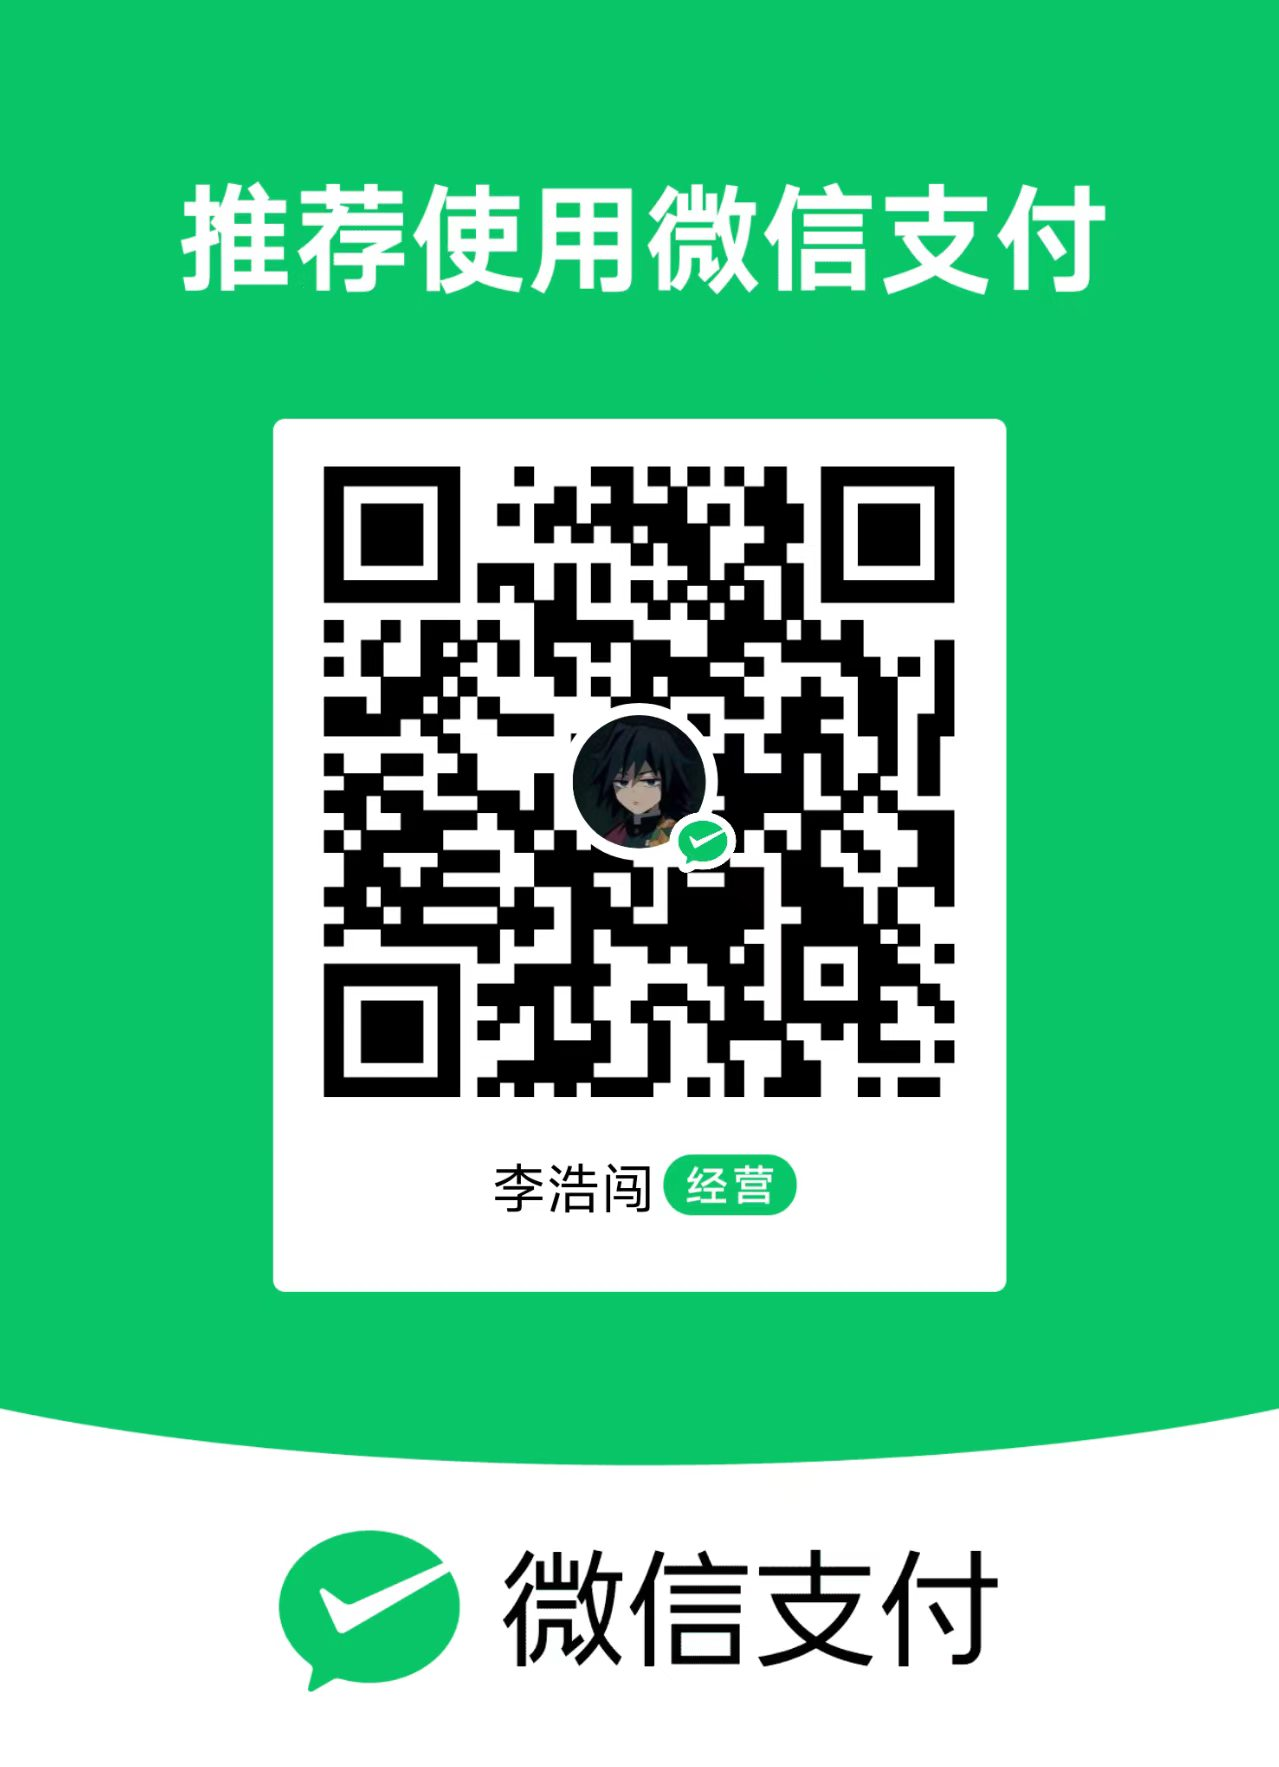
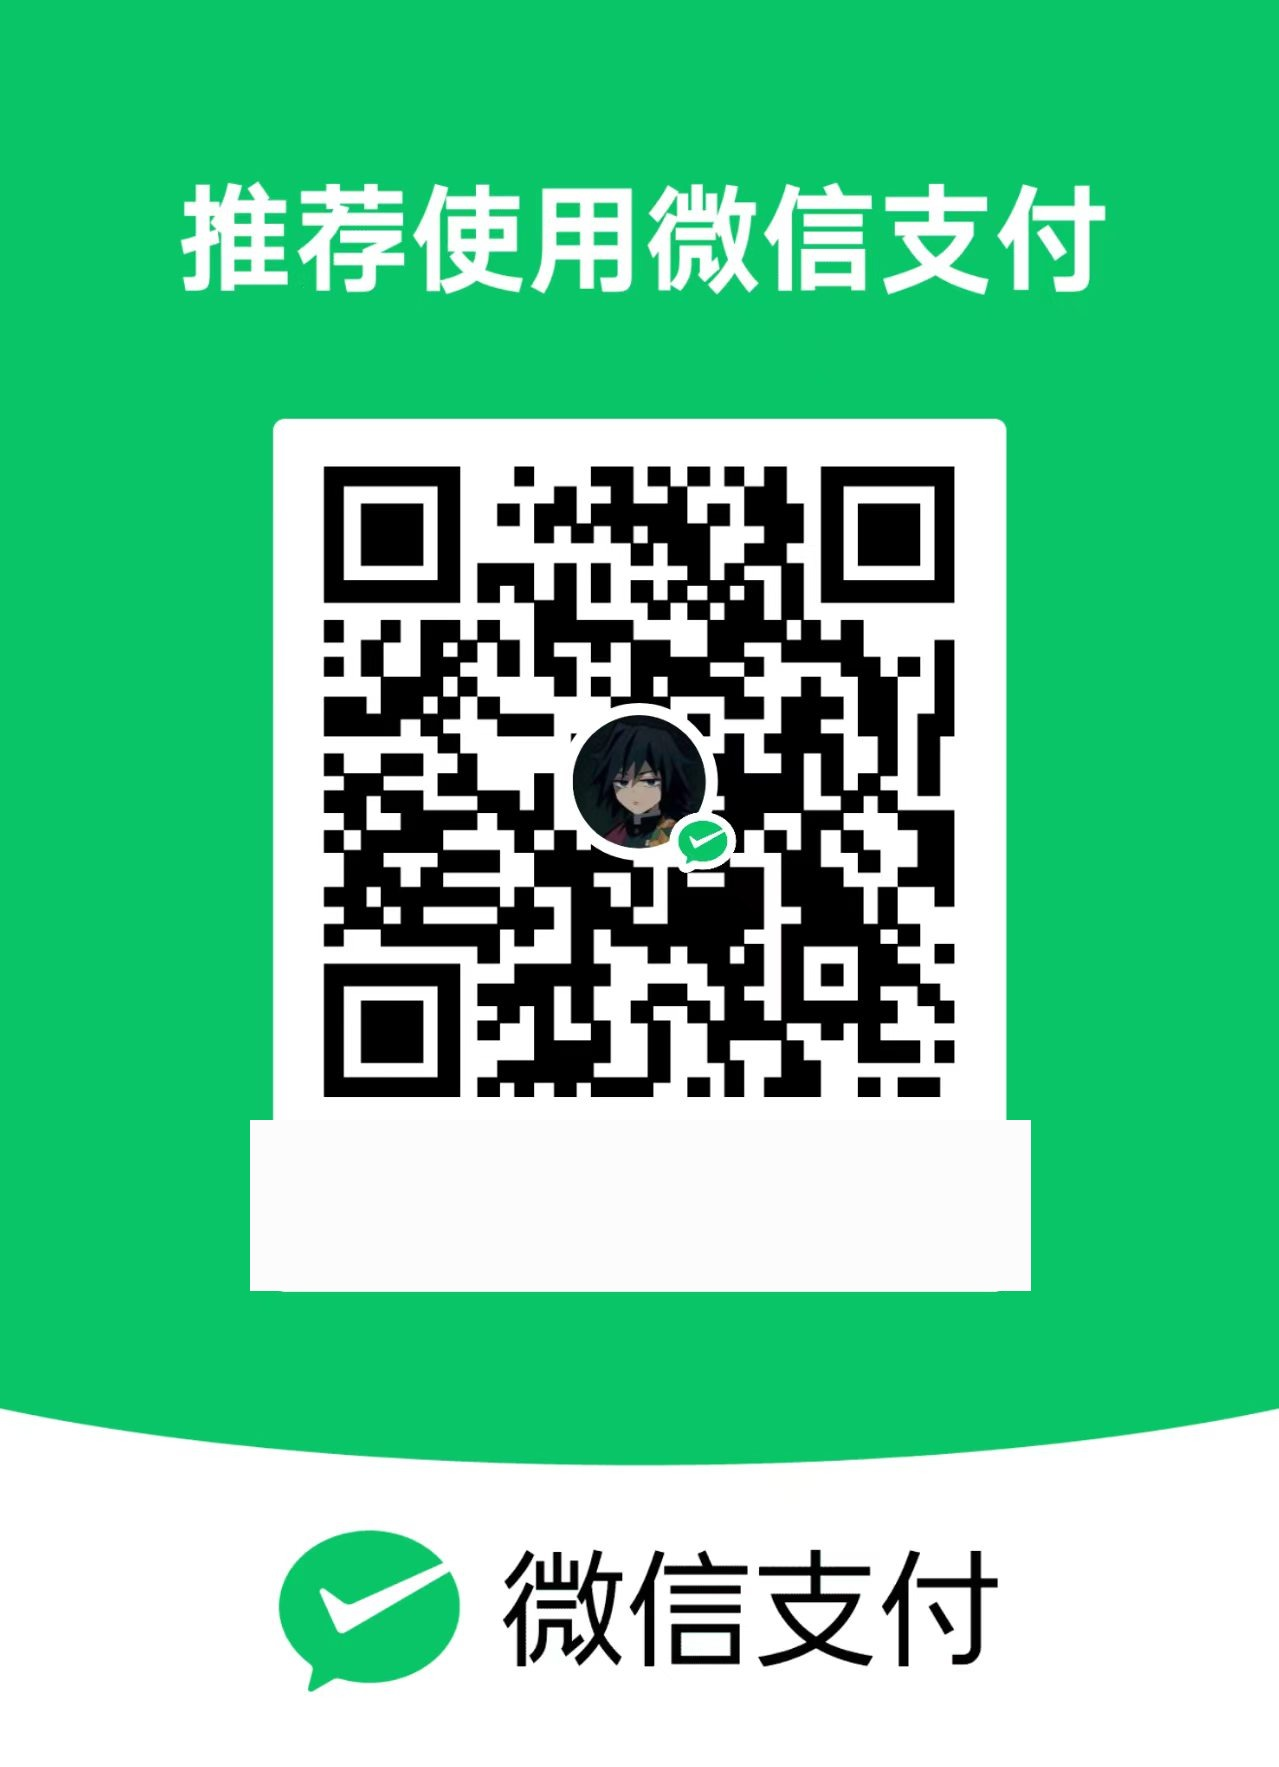
feat: v0.2.1 ad-hoc sign mac build, lower default max_tokens to 800, de-named sponsor QR

Changed region(s): [[0.3964, 0.6537, 0.6403, 0.7159], [0.7623, 0.6225, 0.8233, 0.747], [0.183, 0.6225, 0.2134, 0.747]]

diff --git a/afterPack.js b/afterPack.js
@@ -1,0 +1,32 @@
+'use strict';
+// afterPack 钩子：对 mac 构建产物做 ad-hoc 签名（身份 "-"）。
+//
+// 为什么用 afterPack 而不是 afterSign：
+//   electron-builder 原生签名依赖 keychain 里的真实证书（findIdentity），ad-hoc 身份 "-"
+//   走不通它的流程会被整体跳过，afterSign 钩子也只在「确实签过」时才触发。所以这里用
+//   afterPack —— 它在 app 打包完成后、dmg 封装前执行，且无论原生签名是否发生都会跑。
+//
+// 为什么必须签：
+//   macOS 的屏幕录制(TCC)权限绑定到代码签名身份。完全未签名的 app 即使在
+//   「隐私与安全性 → 屏幕录制」里打了勾，desktopCapturer/screencapture 实际仍被拒
+//   （报 Failed to get sources）。ad-hoc 签名即可让 TCC 授权真正生效。
+//
+// 纯本地 ad-hoc，不引入任何苹果证书/公证。Windows 构建不走这里。
+const path = require('path');
+const { execFileSync } = require('child_process');
+
+exports.default = async function afterPack(context) {
+  if (context.electronPlatformName !== 'darwin') return;
+
+  const appName = `${context.packager.appInfo.productFilename}.app`;
+  const appPath = path.join(context.appOutDir, appName);
+
+  // --force 覆盖任何已有签名，--deep 递归签内嵌 framework/helper，--sign - 为 ad-hoc。
+  execFileSync('codesign', ['--force', '--deep', '--sign', '-', appPath], {
+    stdio: 'inherit',
+  });
+  // 校验：预期输出 Signature=adhoc。
+  execFileSync('codesign', ['-dv', appPath], { stdio: 'inherit' });
+
+  console.log(`[afterPack] ad-hoc signed: ${appPath}`);
+};

diff --git a/src/renderer/settings.js b/src/renderer/settings.js
@@ -22,7 +22,7 @@ function captureState() {
     api_key: $('api_key').value,
     model: $('model').value.trim(),
     stream: $('stream').checked,
-    maxTokens: parseInt($('maxTokens').value, 10) || 1500,
+    maxTokens: parseInt($('maxTokens').value, 10) || 800,
     keepDays: parseInt($('keepDays').value, 10) || 7,
     shrinkLongEdge: parseInt($('shrinkLongEdge').value, 10) || 1200,
     jpegQuality: parseInt($('jpegQuality').value, 10) || 70,
@@ -158,7 +158,7 @@ function showSupported(list) {
 function draftConfig() {
   return {
     providers: [draftProvider()],
-    maxTokens: parseInt($('maxTokens').value, 10) || 1500,
+    maxTokens: parseInt($('maxTokens').value, 10) || 800,
     currentPrompt: $('currentPrompt').value || 'default',
   };
 }
@@ -309,7 +309,7 @@ async function init() {
   $('api_key').value = p.api_key || '';
   $('model').value = p.model || '';
   $('stream').checked = p.stream === true;
-  $('maxTokens').value = c.maxTokens || 1500;
+  $('maxTokens').value = c.maxTokens || 800;
   $('hotkeyInput').value = c.hotkey || 'CommandOrControl+Alt+P';
   $('keepDays').value = c.keepDays || 7;
   $('shrinkLongEdge').value = c.shrinkLongEdge || 1200;

diff --git a/src/renderer/settings.html b/src/renderer/settings.html
@@ -43,7 +43,8 @@
         </span>
       </label>
       <label>模型名 <input id="model" type="text" placeholder="默认自动（留空即自动选择可用的视觉模型）" /></label>
-      <label>max_tokens <input id="maxTokens" type="number" value="1500" /></label>
+      <label>max_tokens <input id="maxTokens" type="number" value="800" /></label>
+      <p class="hint">越大越慢，日常解读 600~800 够用。</p>
       <label class="inline"><input id="stream" type="checkbox" /> 流式输出（不支持的端点会自动回退）</label>
       <p id="supportedModels" class="hint"></p>
       <div class="row">

diff --git a/src/main/llm.js b/src/main/llm.js
@@ -496,7 +496,7 @@ async function resolveAndCall(spec, priority, prompt, imageB64, mediaType, maxTo
 // 返回 {text, raw, via}；全失败抛带 .friendly/.detail/.supported_models 的 ModelError。
 async function analyze(imageBuffer, mediaType, prompt, config, onDelta) {
   const imageB64 = imageBuffer.toString('base64');
-  const maxTokens = parseInt(config.maxTokens, 10) || 1500;
+  const maxTokens = parseInt(config.maxTokens, 10) || 800;
   const priority =
     Array.isArray(config.model_priority) && config.model_priority.length
       ? config.model_priority

diff --git a/src/main/config.js b/src/main/config.js
@@ -40,7 +40,7 @@ function defaults() {
       'glm-4v',
       'glm-4.5v',
     ],
-    maxTokens: 1500,
+    maxTokens: 800,
     shrinkLongEdge: 1200,
     jpegQuality: 70,
     keepDays: 7,

diff --git a/README.md b/README.md
@@ -48,10 +48,12 @@ GitHub 上「截图问 AI」的工具不少，PeekPhone 故意收敛成这三点
 
 ## 安装
 
-本仓库未签名、未公证（无 Apple 开发者账号 / Windows 证书），首次打开会被系统拦：
+mac 包做了本地 **ad-hoc 签名**（让屏幕录制权限能真正生效），但**未公证**（因为没有 Apple 开发者账号，属正常）；Windows 包未签名。首次打开仍会被系统拦：
 
-- **macOS**：右键 App → 打开 → 再点「打开」；或 系统设置 → 隐私与安全性 → 「仍要打开」。
+- **macOS**：右键 App →「打开」→ 再点「打开」绕过 Gatekeeper；或 系统设置 → 隐私与安全性 → 「仍要打开」。然后到 系统设置 → 隐私与安全性 → **屏幕录制**，把 PeekPhone 的开关打开。
 - **Windows**：SmartScreen 拦截时点「更多信息」→「仍要运行」。
+
+*The mac build is **ad-hoc signed** locally (so Screen Recording permission actually takes effect) but **not notarized** (no Apple Developer account — this is expected). On first launch: right-click the app → Open → Open again to bypass Gatekeeper, then enable PeekPhone under System Settings → Privacy & Security → Screen Recording. On Windows, click "More info" → "Run anyway" when SmartScreen blocks it.*
 
 从 [Releases](../../releases) 下载对应平台安装包（由 GitHub Actions 构建），或本地构建：
 
@@ -74,6 +76,16 @@ npm run dist:win   # 打 win nsis
 
 截图依赖「屏幕录制」权限。首次截图时系统会请求授权，在 **系统设置 → 隐私与安全性 → 屏幕录制** 中放行 PeekPhone 后**重开 App**。开发期（`npm start`，由终端拉起）授权对象可能是终端/Electron，打包成 PeekPhone.app 后需**重新授权一次**。若 `screencapture` 子进程在你的 macOS 版本上截到黑帧，App 会自动降级到进程内的 `desktopCapturer`。
 
+#### 故障排查：授了权仍截不了图 / Troubleshooting
+
+屏幕录制权限绑定在**代码签名身份**上。如果你曾装过更早的**未签名**版本并授过权，升级到本版后系统可能把两者当成不同身份，导致列表里打了勾却仍截不到图（报 `Failed to get sources`）。此时在终端跑一次下面的命令清掉旧授权记录，再重开 App 重新授权即可：
+
+```bash
+tccutil reset ScreenCapture com.peekphone.app
+```
+
+*Screen Recording permission is tied to the app's code-signing identity. If you previously granted permission to an older **unsigned** build, after upgrading macOS may treat it as a different identity — the checkbox stays on but capture still fails (`Failed to get sources`). Run the command above once to clear the stale grant, then reopen the app and re-authorize.*
+
 ## 安全说明
 
 - 本地服务监听 `0.0.0.0`：**同子网主机都能连到这个端口，token 是唯一防线**，别把带 `?t=<token>` 的链接转发出去。
@@ -90,7 +102,7 @@ npm run dist:win   # 打 win nsis
 - **Windows 包 / Apple Silicon 包未在本机实测**：本机是 Intel Mac，只验证了 x64 dmg 能装能跑；Windows（`desktopCapturer` 截图路径、清晰度）和 arm64 包由 CI 构建保证能编译，运行正确性需对应平台用户反馈。
 - 手机只读看结果，不能对着截图继续追问；要换角度就在电脑换提示词重截。
 - 局域网 IP 随 DHCP / 换网络变化，换网后在设置里重新看二维码。
-- 未签名版本的 mac 开机自启在部分系统可能需手动到系统设置里添加。
+- mac 开机自启在部分系统可能需手动到系统设置里添加（ad-hoc 签名、未公证）。
 
 ## 架构
 

diff --git a/.agents/tasks/verification.md b/.agents/tasks/verification.md
@@ -174,3 +174,31 @@ GET /img/../../config.json -> 404  (路径穿越被挡)
 - **arm64 dmg / Windows 包**：本机 Intel，仅实测 x64；arm64 与 win 由 CI 构建，运行正确性待对应平台用户反馈（与 v0.1 口径一致）。
 - **托盘图标肉眼呈现**：`/tmp/peek_tray_verify.js` 实测 `nativeImage.createFromPath(assets/tray/trayTemplate.png)` → `empty=false size=22x22`，`tray.build()` 不抛错、`ok=true`；mac 菜单栏像素级外观需人工目视。
 - **全量 `npm start` 启动**：本机已安装的 `/Applications/PeekPhone.app`（用户在用，未动）持有单实例锁，故开发实例按设计 `requestSingleInstanceLock()` 立即自退、启动日志无报错——属单实例正确行为。主进程各模块在 `/tmp/peek_electron_verify.js`（`app.whenReady` 后 server/pipeline/capture 全链路）已证可加载运行。
+
+## v0.2.1 ad-hoc 签名（核心修复）
+问题：v0.2.0 的 mac 包 `mac.identity` 走 electron-builder 原生签名，ad-hoc 身份走不通其 `findIdentity` 被整体跳过，产物 `codesign -dv` 显示 *not signed at all*。而 macOS 屏幕录制(TCC)权限绑定代码签名身份，未签名 app 即使在「屏幕录制」里打勾，`desktopCapturer`/`screencapture` 实际仍被拒。
+
+修法：`package.json` 的 `build.mac.identity: null`（显式跳过原生签名，日志干净）+ 新增 `build.afterPack: "./afterPack.js"` 钩子，对 `context.appOutDir` 下的 `.app` 跑 `codesign --force --deep --sign -`（纯本地 ad-hoc，无苹果证书/公证）。用 afterPack 而非 afterSign，因为 afterSign 只在原生签名实际发生时才触发。
+
+**构建实测（本机 Intel x64 Mac，`npm run dist:mac`）**：x64 目标成功产出 `dist/PeekPhone-0.2.1.dmg`（95,298,430 B）。afterPack 钩子日志打印 `Signature=adhoc`。arm64 目标因需从 github.com 下载 `electron-v33.4.11-darwin-arm64.zip` 遇网络 EOF 失败（与本次改动无关，arm64 包本就由 CI 构建），不影响 x64 验证。
+
+**挂载 dmg 验签**（`hdiutil attach` → `codesign -dv`）：
+```
+Executable=/Volumes/PeekPhone 0.2.1/PeekPhone.app/Contents/MacOS/PeekPhone
+Identifier=com.peekphone.app
+Format=app bundle with Mach-O thin (x86_64)
+CodeDirectory v=20400 size=362 flags=0x2(adhoc) hashes=5+3 location=embedded
+Signature=adhoc
+Info.plist entries=33
+TeamIdentifier=not set
+Sealed Resources version=2 rules=13 files=11
+Internal requirements count=0 size=12
+```
+`codesign --verify --verbose=2` 结果：`valid on disk` + `satisfies its Designated Requirement`。即不再是 not signed，ad-hoc 签名生效。
+
+端到端截图需用户在 TCC 授权框手动放行，agent 无法点系统授权框，不在本次自动验证范围；签名生效即解除「打勾也截不到」的根因。
+
+## v0.2.1 其余改动
+- **max_tokens 默认 1500 → 800**：`config.js` 的 `defaults().maxTokens=800`（已有用户 config.json 不覆盖，只影响首次生成）；`settings.html` 输入框默认值 800 + 旁加提示「越大越慢，日常解读 600~800 够用」；`settings.js`/`llm.js` 的 `|| 1500` 回退同步改 800。`node --check` 全通过。
+- **赞助码去名**：`assets/sponsor-wechat.jpg` 已为去名版本（图未动）；确认 `ipc.js`、`server.js`、README 均引用 `assets/sponsor-wechat.jpg` 该路径，无需改引用。
+- **README**：安装小节改为「mac ad-hoc 签名但未公证（无苹果账号，属正常）」并补首启授权步骤；新增「故障排查」小节给出 `tccutil reset ScreenCapture com.peekphone.app`（针对从未签名旧版升级后授权失配），均中英双语。

diff --git a/说明.md b/说明.md
@@ -125,3 +125,15 @@ npm start
 
 ### 验证
 v0.2 全部真实验证见 `.agents/tasks/verification.md` 的「v0.2」小节（含真调本机反代、自动回退、流式、鉴权翻页、赞助、图标、dmg 体积、脏改动/自动保存、失败日志）。
+
+---
+
+## v0.2.1 变更（2026-10-21）
+
+小版本收尾，核心是解掉所有 mac 用户都会撞的「截图权限不生效」致命坑。
+
+1. **（核心）mac 构建 ad-hoc 签名**：v0.2.0 的 mac 包完全未签名（`codesign -dv` 显示 not signed），而 macOS 屏幕录制(TCC)权限绑代码签名身份，未签名 app 即使在「屏幕录制」打勾实际仍被拒。修法：`package.json` `build.mac.identity: null` 显式跳过 electron-builder 原生签名 + 新增 `afterPack.js` 钩子对打包产物跑 `codesign --force --deep --sign -` 做本地 ad-hoc 签名（不引入苹果证书/公证）。本机 `npm run dist:mac` 产出 `dist/PeekPhone-0.2.1.dmg`，挂载后 `codesign -dv` 显示 `Signature=adhoc`、`flags=0x2(adhoc)`，`--verify` 通过。详见 verification.md「v0.2.1」小节。
+2. **max_tokens 默认 1500 → 800 提速**：上游慢，默认值降到 800（`config.js`）；设置页旁加提示「越大越慢，日常解读 600~800 够用」。只改首次生成默认，不覆盖已有用户配置。
+3. **赞助码去名**：`assets/sponsor-wechat.jpg` 换成涂掉姓名的版本（二维码完整），app 与 README 引用路径不变。
+4. **README**：安装/故障排查小节补 mac 首启授权步骤与 `tccutil reset ScreenCapture com.peekphone.app`（针对未签名旧版升级后授权失配），中英双语；说明未公证属正常（无苹果开发者账号）。
+5. 版本号升到 `0.2.1`。Windows 构建与其余功能未动。
